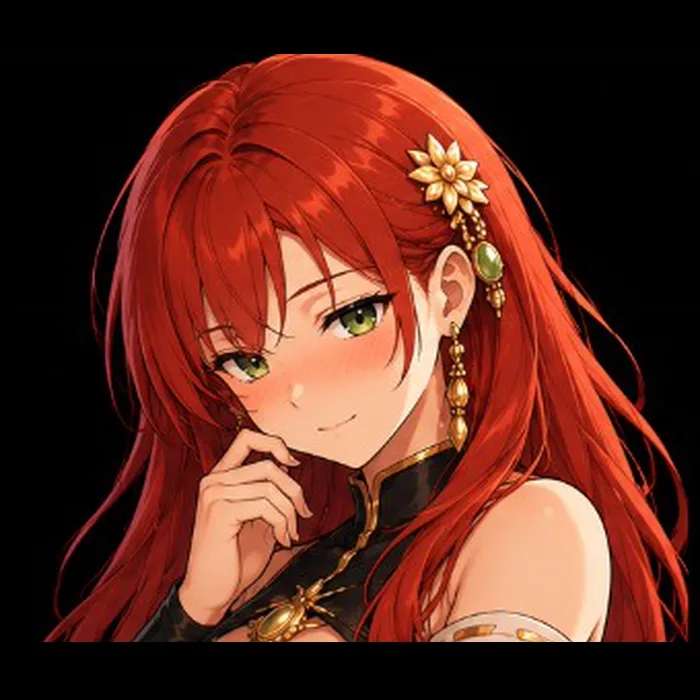
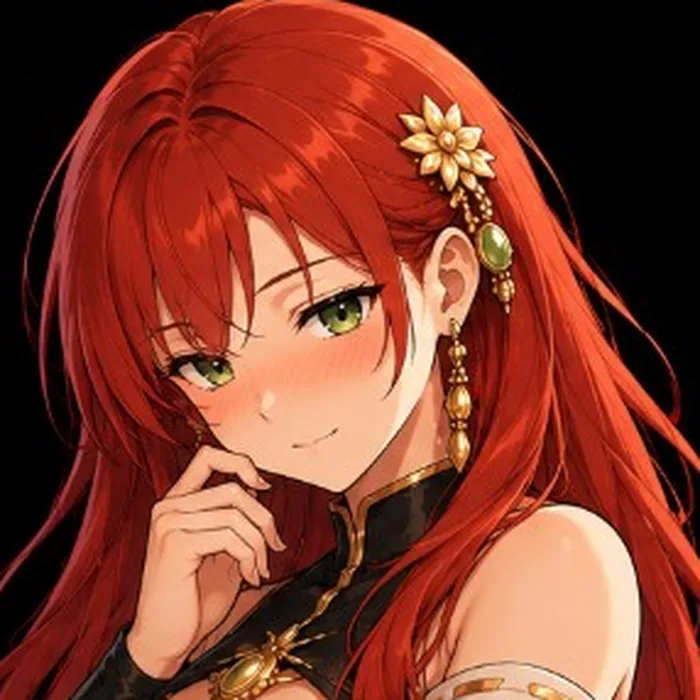
face sprite edits

diff --git a/scripts/crop-faces.py b/scripts/crop-faces.py
@@ -1,0 +1,133 @@
+"""Cut Leela's portraits out of a labelled contact sheet, full bleed.
+
+The sheets lay the portraits out in a grid with a caption under each one, and
+each cell carries uneven black gutters. A naive cell crop is wider than it is
+tall once the caption is excluded, so padding it out to a square leaves black
+bars that the circular avatar frame renders as a border.
+
+Instead we find the art's real bounding box and take the largest square that
+fits inside it, so the output is entirely art. When the box is wider than it
+is tall we keep the full height and trim the sides; when it is taller we keep
+the full width and trim from the bottom, since the head sits at the top and
+the shoulders are the expendable part.
+"""
+
+import sys
+from pathlib import Path
+
+from PIL import Image
+
+OUT = Path("public/assets/faces")
+SIZE = 700
+QUALITY = 82
+THRESHOLD = 20
+
+# Cell regions exclude the caption band at each row's foot, so the gold caption
+# text is never mistaken for art. Verified against each sheet before use.
+SHEETS = [
+    (
+        "ChatGPT_Image_Jul_25__2026__01_08_24_PM-1397062a-e9c3-4bdf-b32a-873413ba9bd1.png",
+        [
+            ("surprised-3", 0, 0, 341, 322),
+            ("angry-1", 341, 0, 342, 322),
+            ("sad-2", 683, 0, 341, 322),
+            ("shy-1", 0, 356, 341, 286),
+            ("thinking-3", 341, 356, 342, 286),
+            ("confident-1", 683, 356, 341, 286),
+        ],
+    ),
+    (
+        "ChatGPT_Image_Jul_25__2026__01_04_52_PM-6b8d2ff0-8d76-4cd8-8eb6-8dcc95ab5c91.png",
+        [
+            ("excited-2", 0, 0, 341, 313),
+            ("determined-1", 341, 0, 342, 313),
+            ("worried-1", 683, 0, 341, 313),
+            ("shocked-1", 0, 355, 341, 291),
+            ("laughing-1", 341, 355, 342, 291),
+            ("serious-1", 683, 355, 341, 291),
+        ],
+    ),
+]
+
+SHEET_DIR = Path(
+    r"C:\Users\Enterprise\.cursor\projects"
+    r"\c-Users-Enterprise-Documents-RPGtask\assets"
+)
+SHEET_PREFIX = (
+    "c__Users_Enterprise_AppData_Roaming_Cursor_User_workspaceStorage"
+    "_7140a73d1aa4caf77b0086f3912d3428_images_"
+)
+
+
+def content_box(im: Image.Image) -> tuple[int, int, int, int]:
+    """Bounding box of the actual art.
+
+    Some of the art is cut out on transparency and some is drawn on black, so
+    the test has to follow the image. Judging an alpha image by its luma reads
+    the undefined RGB behind the transparent edge as content and defeats the
+    whole exercise.
+    """
+    source = im.getchannel("A") if "A" in im.mode else im.convert("L")
+    box = source.point(lambda v: 255 if v > THRESHOLD else 0).getbbox()
+    if box is None:
+        raise SystemExit("image is entirely empty")
+    return box
+
+
+def square_on_art(im: Image.Image) -> Image.Image:
+    left, top, right, bottom = content_box(im)
+    width, height = right - left, bottom - top
+    side = min(width, height)
+
+    if width >= height:
+        x = left + (width - side) // 2
+        y = top
+    else:
+        x = left
+        y = top  # anchor to the head, trim the shoulders
+
+    return im.crop((x, y, x + side, y + side))
+
+
+def save(im: Image.Image, path: Path) -> None:
+    im.resize((SIZE, SIZE), Image.LANCZOS).save(path, quality=QUALITY, method=6)
+
+
+def cut_sheets() -> None:
+    for filename, cells in SHEETS:
+        sheet = Image.open(SHEET_DIR / (SHEET_PREFIX + filename)).convert("RGB")
+        print(f"{filename[:28]}:")
+        for name, x, y, w, h in cells:
+            art = square_on_art(sheet.crop((x, y, x + w, y + h)))
+            save(art, OUT / f"{name}.webp")
+            print(f"  {name}.webp  from {art.width}px square")
+
+
+def tighten_installed() -> None:
+    """Re-cut any already-installed portrait that still has a margin.
+
+    Covers the hand-made assets that never came off a sheet. Those are cut out
+    on transparency, so the mode is carried through untouched rather than
+    flattened: dropping their alpha exposes undefined pixels behind the cutout
+    and speckles the whole background. A no-op once an asset is full bleed, so
+    this is safe to re-run without stacking up generations of re-encoding.
+    """
+    for path in sorted(OUT.glob("*.webp")):
+        im = Image.open(path)
+        left, top, right, bottom = content_box(im)
+        margin = max(left, top, im.width - right, im.height - bottom)
+        if margin <= 6:
+            continue
+        save(square_on_art(im), path)
+        print(f"  {path.name}  tightened {margin}px, kept {im.mode}")
+
+
+def main() -> int:
+    cut_sheets()
+    print("installed:")
+    tighten_installed()
+    return 0
+
+
+if __name__ == "__main__":
+    sys.exit(main())

diff --git a/scripts/face-bounds.py b/scripts/face-bounds.py
@@ -1,0 +1,59 @@
+"""Report the black margin on each face asset.
+
+The portraits are drawn on black, so a margin here means dead space that the
+circular avatar frame renders as a border rather than art.
+"""
+
+import sys
+from pathlib import Path
+
+from PIL import Image
+
+FACES = Path("public/assets/faces")
+# Anything this dark is background, not art. The portraits' own shadows sit
+# well above it.
+THRESHOLD = 20
+
+
+def bounds(path: Path) -> tuple[int, int, int, int, int, int, str]:
+    im = Image.open(path)
+    w, h = im.size
+    # Some of the art is cut out on transparency and some is drawn on black.
+    # Judging an alpha image by its luma reads the undefined RGB behind the
+    # transparent edge as content, which is how this tool lied the first time.
+    if "A" in im.mode:
+        source, kind = im.getchannel("A"), "alpha"
+    else:
+        source, kind = im.convert("L"), "black"
+    box = source.point(lambda v: 255 if v > THRESHOLD else 0).getbbox()
+    if box is None:
+        raise SystemExit(f"{path.name} is entirely empty")
+    return (*box, w, h, kind)
+
+
+def main() -> int:
+    rows = []
+    for path in sorted(FACES.glob("*.webp")):
+        left, top, right, bottom, w, h, kind = bounds(path)
+        rows.append(
+            (
+                path.name,
+                left,
+                top,
+                w - right,
+                h - bottom,
+                right - left,
+                bottom - top,
+                kind,
+            )
+        )
+
+    print(f"{'file':<18}{'bg':<7}{'L':>5}{'T':>5}{'R':>5}{'B':>5}   content")
+    for name, l, t, r, b, cw, ch, kind in rows:
+        flag = "  <-- margin" if max(l, t, r, b) > 6 else ""
+        print(f"{name:<18}{kind:<7}{l:>5}{t:>5}{r:>5}{b:>5}   {cw}x{ch}{flag}")
+    return 0
+
+
+if __name__ == "__main__":
+    sys.exit(main())
